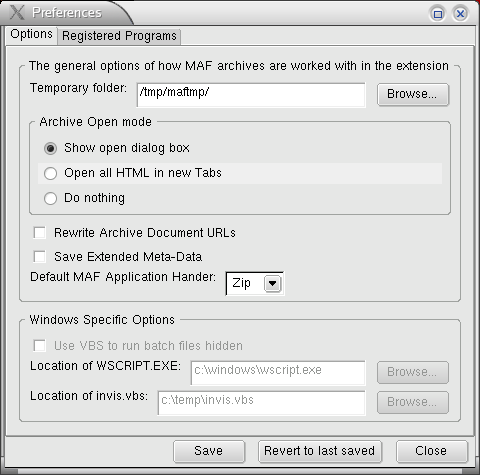
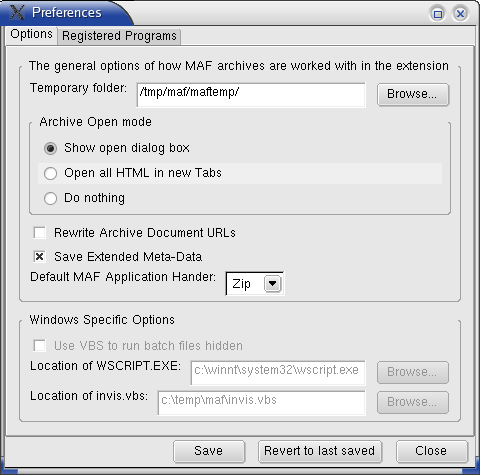
Updated preferences for 0.2.18 install

diff --git a/www/preferences.html b/www/preferences.html
@@ -3,23 +3,23 @@
 
 <p>The preferences are available from the <i>Tools</i> menu and the <i>Mozilla Archive Format</i> submenu.</p>
 
-<p>The additional available preferences for Windows that do not apply to Linux, the execution of VBS script to hide the dos box that appears during batch file execution, are disabled on other platforms.</p>
+<p>The additional available preferences for Windows are disabled on other platforms. The only preference like this thus far is the ability to execute a VBS script to hide the dos box that appears during batch file execution.</p>
 
-<p>Below are screen shots of the preferences dialog on linux. In Linux ensure that the temporary directory to use is set to <b>/tmp/maftmp/</b> or whatever temporary directory your script uses as seen in the figure below.</p>
+<p>Below are screen shots of the preferences dialog on Linux. In Linux ensure that the temporary directory to use is set to <b>/tmp/maf/maftemp/</b> or whatever temporary directory your script uses as seen in the figure below.</p>
 
 <img src="images/linuxprefs1.png" alt="Linux preferences dialog - Tab 1" />
 
 <br />
 
-<p>Also ensure (by selecting the registered programs tab) that the handler scripts for the archiving and expansion tasks are setup properly as seen in the figure below. The archive script is set to <b>/tmp/mafzip.sh</b> and the expansion script is set to <b>/tmp/mafunzip.sh</b>.</p>
+<p>Also ensure (by selecting the registered programs tab) that the handler scripts for the archiving and expansion tasks are setup properly as seen in the figure below. The archive script is set to <b>/tmp/maf/mafzip.sh</b> and the expansion script is set to <b>/tmp/maf/mafunzip.sh</b>.</p>
 
 <img src="images/linuxprefs2.png" alt="Linux preferences dialog - Tab 2" />
 
 <br />
 
-<p>The windows preference configuration is similar. The temporary directory to use would be <b>c:\temp\maftemp\</b> and the scripts to use for archiving and expansion would be <b>c:\temp\mafzip.bat</b> and <b>c:\temp\mafunzip.bat</b> respectively.</p>
+<p>The windows preference configuration is similar. The temporary directory to use would be <b>c:\temp\maf\maftemp\</b> and the scripts to use for archiving and expansion would be <b>c:\temp\maf\mafzip.bat</b> and <b>c:\temp\maf\mafunzip.bat</b> respectively.</p>
 
-<p>If you are a windows user and wish to use the VBS option <i>ENSURE</i> that the script archive and expansion processes are working first. After that is confirmed (by saving to an archive and opening it back) you can safely enable the VBS option. Browse to the location of wscript.exe (usually in the %WINDIR%\system32 directory). You also must correctly set the location of invis.vbs which is provided in the winutils.zip file.</p>
+<p>If you are a windows user and wish to use the VBS option <i>ENSURE</i> that the script archive and expansion processes are working first. After that is confirmed (by saving to an archive and opening it back) you can safely enable the VBS option. Browse to the location of wscript.exe (usually in the %WINDIR%\system32 directory). You also must correctly set the location of invis.vbs which should be at <b>c:\temp\maf\invis.vbs</b>.</p>
 
 <p><b>Preferences: Open Archive Mode</b>
 <br/><br/>
